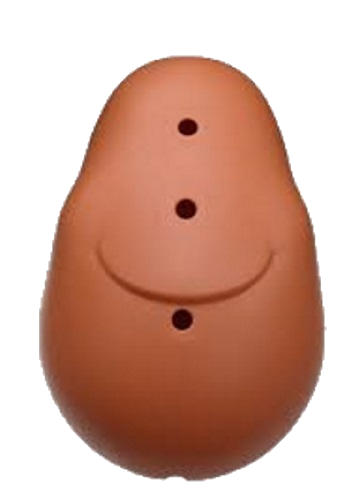
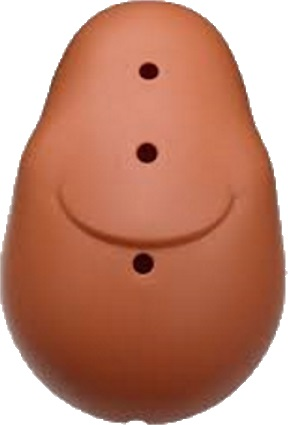
updated Mr. potato head

diff --git a/javascript/HW93/potato.html b/javascript/HW93/potato.html
@@ -8,31 +8,14 @@
         <title>Document</title>
         <link rel="stylesheet" href="https://maxcdn.bootstrapcdn.com/bootstrap/4.0.0-beta.3/css/bootstrap.min.css" integrity="sha384-/Y6pD6FV/Vv2HJnA6t+vslU6fwYXjCFtcEpHbNJ0lyAFsXTsjBbfaDjzALeQsN6M"
             crossorigin="anonymous">
-        <link rel="stylesheet" href="/jquery-ui.min.css">
-        <link rel="stylesheet" href="https://ajax.googleapis.com/ajax/libs/jqueryui/1.12.1/themes/smoothness/jquery-ui.css">
         <link rel="stylesheet" href="/bootstrap-4.0.0-beta.3-dist/css/bootstrap.min.css">
         <style> 
-            .ui-widget-content{
-                position: absolute;
+            .draggable{
+                position:absolute;
             }
             li{
                 height: 175px;
                 width: 175px;
-            }
-            /* #potato{
-                position: fixed;
-                width: 480px;
-                height: 656px;
-                top: 50%;
-                left: 50%;
-                margin-left: -240px; 
-                margin-top: -328px; 
-                z-index: -1;
-            } */
-            .row div{
-                position: absolute;
-                margin-left: 250px;
-                 z-index: -1;
             }
         </style>
     </head>
@@ -42,40 +25,38 @@
             <h1 class="text-center">Mr. Potato Head</h1>
             <div class="row">
                 <ul class="list-inline">
-                    <li class="media"><img src="images\eyes.jpg" class="ui-widget-content d-flex mr-3"></li>
-                    <li class="media"><img src="images\eyes2.jpg" class="ui-widget-content d-flex mr-3"></li>
-                    <li class="media"><img src="images\eyes3.jpg" class="ui-widget-content d-flex mr-3"></li>
-                    <li class="media"><img src="images\feet.jpg" class="ui-widget-content d-flex mr-3"></li>
-                    <li class="media"><img src="images\feet2.jpg" class="ui-widget-content d-flex mr-3"></li>
-                    <li class="media"><img src="images\feet3.jpg" class="ui-widget-content d-flex mr-3"></li>
-                    <li class="media"><img src="images\glasses.jpg" class="ui-widget-content d-flex mr-3"></li>
-                    <li class="media"><img src="images\tongue.jpg" class="ui-widget-content d-flex mr-3"></li>
-                    <li class="media"><img src="images\nose2.jpg" class="ui-widget-content d-flex mr-3"></li>
-                    <li class="media"><img src="images\nose3.jpg" class="ui-widget-content d-flex mr-3"></li>
-                    <li class="media"><img src="images\bow.jpg" class="ui-widget-content d-flex mr-3"></li>
-                    <li class="media"><img src="images\leftHand.jpg" class="ui-widget-content d-flex mr-3"></li>
-                    <li class="media"><img src="images\rightHand.jpg" class="ui-widget-content d-flex mr-3"></li>
-                    <li class="media"><img src="images\rightEar.jpg" class="ui-widget-content d-flex mr-3"></li>
-                    <li class="media"><img src="images\leftEar.jpg" class="ui-widget-content d-flex mr-3"></li>
+                    <li class="media"><div class="draggable"><img src="images\eyes.png" class="d-flex mr-3"></div></li>
+                    <li class="media"><div class="draggable"><img src="images\eyes2.png" class="d-flex mr-3"></div></li>
+                    <li class="media"><div class="draggable"><img src="images\feet.png" class="d-flex mr-3"></div></li>
+                    <li class="media"><div class="draggable"><img src="images\feet2.png" class="d-flex mr-3"></div></li>
+                    <li class="media"><div class="draggable"><img src="images\feet3.png" class="d-flex mr-3"></div></li>
+                    <li class="media"><div class="draggable"><img src="images\glasses.png" class="d-flex mr-3"></div></li>
+                    <li class="media"><div class="draggable"><img src="images\tongue.png" class="d-flex mr-3"></div></li>
+                    <li class="media"><div class="draggable"><img src="images\nose2.png" class="d-flex mr-3"></div></li>
+                    <li class="media"><div class="draggable"><img src="images\nose.png" class="d-flex mr-3"></div></li>
+                    <li class="media"><div class="draggable"><img src="images\bow.png" class="d-flex mr-3"></div></li>
+                    <li class="media"><div class="draggable"><img src="images\leftHand.png" class="d-flex mr-3"></div></li>
+                    <li class="media"><div class="draggable"><img src="images\rightHand.png" class="d-flex mr-3"></div></li>
+                    <li class="media"><div class="draggable"><img src="images\rightEar.png" class="d-flex mr-3"></div></li>
+                    <li class="media"><div class="draggable"><img src="images\mustach.png" class="d-flex mr-3"></div></li>
+                    <li class="media"><div class="draggable"><img src="images\leftEar.png" class="d-flex mr-3"></div></li>
                 </ul>
                 <div class="row">
                     <div class="col-sm-3 offset-sm-8">
-                        <img src="images\head.jpg" id="potato">
+                        <img src="images\head.png" id="potato">
                     </div>
                 </div>
             </div>
         </div>
         <script src="/tether.min.js"></script>
         <script src="/jquery-3.2.1.min.js"></script>
-        <script src="/jquery-ui.min.js"></script>
         <script src="/popper.min.js"></script>
         <script src="/bootstrap-4.0.0-beta.3-dist/js/bootstrap.min.js"></script>
-        <!-- <script src="https://code.jquery.com/jquery-3.2.1.slim.min.js" integrity="sha384-KJ3o2DKtIkvYIK3UENzmM7KCkRr/rE9/Qpg6aAZGJwFDMVNA/GpGFF93hXpG5KkN"crossorigin="anonymous"></script>
-            <script src="https://ajax.googleapis.com/ajax/libs/jqueryui/1.12.1/jquery-ui.min.js"></script>
+        <script src="https://code.jquery.com/jquery-3.2.1.slim.min.js" integrity="sha384-KJ3o2DKtIkvYIK3UENzmM7KCkRr/rE9/Qpg6aAZGJwFDMVNA/GpGFF93hXpG5KkN"crossorigin="anonymous"></script>
     <script src="https://npmcdn.com/tether@1.2.4/dist/js/tether.min.js"></script> 
     <script src="https://cdnjs.cloudflare.com/ajax/libs/popper.js/1.12.3/umd/popper.min.js" integrity="sha384-vFJXuSJphROIrBnz7yo7oB41mKfc8JzQZiCq4NCceLEaO4IHwicKwpJf9c9IpFgh"crossorigin="anonymous"></script> 
     <script src="https://maxcdn.bootstrapcdn.com/bootstrap/4.0.0-beta.3/js/bootstrap.min.js" integrity="sha384-alpBpkh1PFOepccYVYDB4do5UnbKysX5WZXm3XxPqe5iKTfUKjNkCk9SaVuEZflJ"
-    crossorigin="anonymous"></script>-->
+    crossorigin="anonymous"></script>
         <script src="potato.js"></script>
     </body>
 

diff --git a/javascript/HW93/potato.js b/javascript/HW93/potato.js
@@ -1,31 +1,28 @@
 /*global $ */
-// (function () {
-//     'use strict';
-
-//     var dragging;
-//     var offset;
-//     var zIndex = 0;
-//     $(document).on('mousedown', '.dragable', function (event) {
-//         //console.log(event);
-//         dragging = $(this);
-//         //console.log(dragging);
-//         offset = { y: event.offsetY, x: event.offsetX };
-//         dragging.css('zIndex', ++zIndex);
-//     }).on('mouseup', '.dragable', function () {
-//         dragging = null;
-//         console.log(dragging);
-//     }).on('mousemove', function (event) {
-//         if (dragging) {
-//             dragging.css({ top: event.clientY - offset.y, left: event.clientX - offset.x });
-//         }
-//     });
-// })();
-
 (function () {
     'use strict';
+
+    var dragging;
+    var offset;
     var zIndex = 0;
-    $(function () {
-        $(".ui-widget-content").draggable({ stack: "div" });
-       // $(".ui-widget-content").draggable("option", "zIndex", ++zIndex);
+    $(document).on('mousedown', '.draggable', function (event) {
+        event.preventDefault();
+        //console.log(event);
+        dragging = $(this);
+        //console.log(dragging);
+        offset = { y: event.offsetY, x: event.offsetX };
+        dragging.css('zIndex', ++zIndex);
+    }).on('mouseup',function () {
+        event.preventDefault();
+        dragging = null;
+        //console.log(dragging);
+        }).on('mousemove', function (event) {
+            event.preventDefault();
+        if (dragging) {
+            dragging.css({ top: event.pageY - offset.y, left: event.pageX - offset.x });
+            // console.log(dragging.find('img'));
+            // console.log('the part top: ', dragging.css('top'), 'left: ', dragging.css('left'));
+            // console.log('the event top: ', event.clientY - offset.y, 'left: ', event.clientX - offset.x);
+        }
     });
 })();
